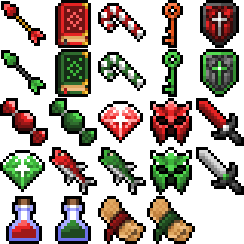
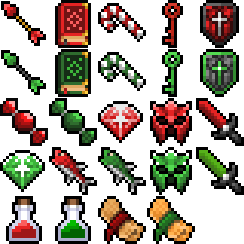
Updated items hues, replaced player pink with red color, moved decorators and paths to sprite sheets

diff --git a/src/main/resources/view/config.js b/src/main/resources/view/config.js
@@ -11,6 +11,6 @@ export const modules = [
 
 // Setting players' colors
 export const playerColors = [
-    '#ff1d5c', // player 1
+    '#d90000', // player 1
     '#41a200' // player 2
 ];

diff --git a/src/main/java/com/codingame/game/Referee.java b/src/main/java/com/codingame/game/Referee.java
@@ -47,13 +47,13 @@ public class Referee extends AbstractReferee {
     private boolean passActions = false;
 
     //Score
-    private final int POINTS_PER_ITEM = 1;
+    private static final int POINTS_PER_ITEM = 1;
     //Game turns
-    public static int gameTurnsLeft = Constants.MAX_GAME_TURNS;
+    public static int gameTurnsLeft;
     //Number of turns required to accommodate the worst case scenario:
     //max move step frames per MOVE turn + (1 row frame + 1 push frame) per PUSH turn
     //+ 1 extra frame to return "Max turns reached!", if required
-    private int maxNumTurns = (Constants.MAX_MOVE_STEPS + 2) * Constants.MAX_GAME_TURNS / 2 + 1;
+    private static final int MAX_NUM_TURNS = (Constants.MAX_MOVE_STEPS + 2) * Constants.MAX_GAME_TURNS / 2 + 1;
 
     //League stuff
     private static int leagueLevel;
@@ -66,7 +66,9 @@ public class Referee extends AbstractReferee {
         Properties params = gameManager.getGameParameters();
         Constants.random = new Random(getSeed(params));
 
+        gameTurnsLeft = Constants.MAX_GAME_TURNS;
         leagueLevel = gameManager.getLeagueLevel();
+        gameManager.setMaxTurns(MAX_NUM_TURNS);
 
         switch (leagueLevel) {
             //numCardsPerPlayer and numVisibleCards <= 12!!!
@@ -97,17 +99,6 @@ public class Referee extends AbstractReferee {
                 break;
         }
 
-        entityModule.createSpriteSheetLoader()
-                .setSourceImage("items.png")
-                .setImageCount(12)
-                .setWidth(48)
-                .setHeight(48)
-                .setOrigRow(0)
-                .setOrigCol(0)
-                .setImagesPerRow(5)
-                .setName("items")
-                .load();
-
         // align the cards based on league data
         int cardsPosX = (Constants.MAP_POS_X - Constants.TILE_SIZE / 2
                 - Math.max(0, numVisibleCards - 1) * (Constants.CARD_SIZE + Constants.CARDS_OFFSET_X)) / 2;
@@ -116,8 +107,7 @@ public class Referee extends AbstractReferee {
         Constants.DECK_POSITIONS.get(0).setX(cardsPosX);
         Constants.DECK_POSITIONS.get(1).setX(Constants.SCREEN_WIDTH - cardsPosX);
 
-        gameManager.setMaxTurns(maxNumTurns);
-
+        loadSpriteSheets();
         createBoard();
         createPlayers();
         createView();
@@ -134,6 +124,39 @@ public class Referee extends AbstractReferee {
         } catch(NumberFormatException nfe) {
             return 0L;
         }
+    }
+
+    private void loadSpriteSheets() {
+        entityModule.createSpriteSheetLoader()
+                .setSourceImage("items.png")
+                .setImageCount(12)
+                .setWidth(48)
+                .setHeight(48)
+                .setOrigRow(0)
+                .setOrigCol(0)
+                .setImagesPerRow(5)
+                .setName("items")
+                .load();
+        entityModule.createSpriteSheetLoader()
+                .setSourceImage("tile_decorators.png")
+                .setImageCount(12)
+                .setWidth(312)
+                .setHeight(312)
+                .setOrigRow(0)
+                .setOrigCol(0)
+                .setImagesPerRow(3)
+                .setName("tile_decorators")
+                .load();
+        entityModule.createSpriteSheetLoader()
+                .setSourceImage("tile_paths.png")
+                .setImageCount(12)
+                .setWidth(312)
+                .setHeight(312)
+                .setOrigRow(0)
+                .setOrigCol(0)
+                .setImagesPerRow(3)
+                .setName("tile_paths")
+                .load();
     }
 
     //Models

diff --git a/src/main/java/com/codingame/game/View/TileView.java b/src/main/java/com/codingame/game/View/TileView.java
@@ -41,13 +41,13 @@ public class TileView extends MovingView {
 
     private void createTileView() {
         decors = entityModule.createSprite()
-                .setImage(String.format("decors_%s.png", model.getPattern()))
+                .setImage(String.format("decors_%s", model.getPattern()))
                 .setBaseWidth(Constants.TILE_SIZE)
                 .setBaseHeight(Constants.TILE_SIZE)
                 .setAnchor(0.5)
                 .setZIndex(1);
         directions = entityModule.createSprite()
-                .setImage(String.format("paths_%s.png", model.getPattern()))
+                .setImage(String.format("paths_%s", model.getPattern()))
                 .setBaseWidth(Constants.TILE_SIZE)
                 .setBaseHeight(Constants.TILE_SIZE)
                 .setAnchor(0.5)
